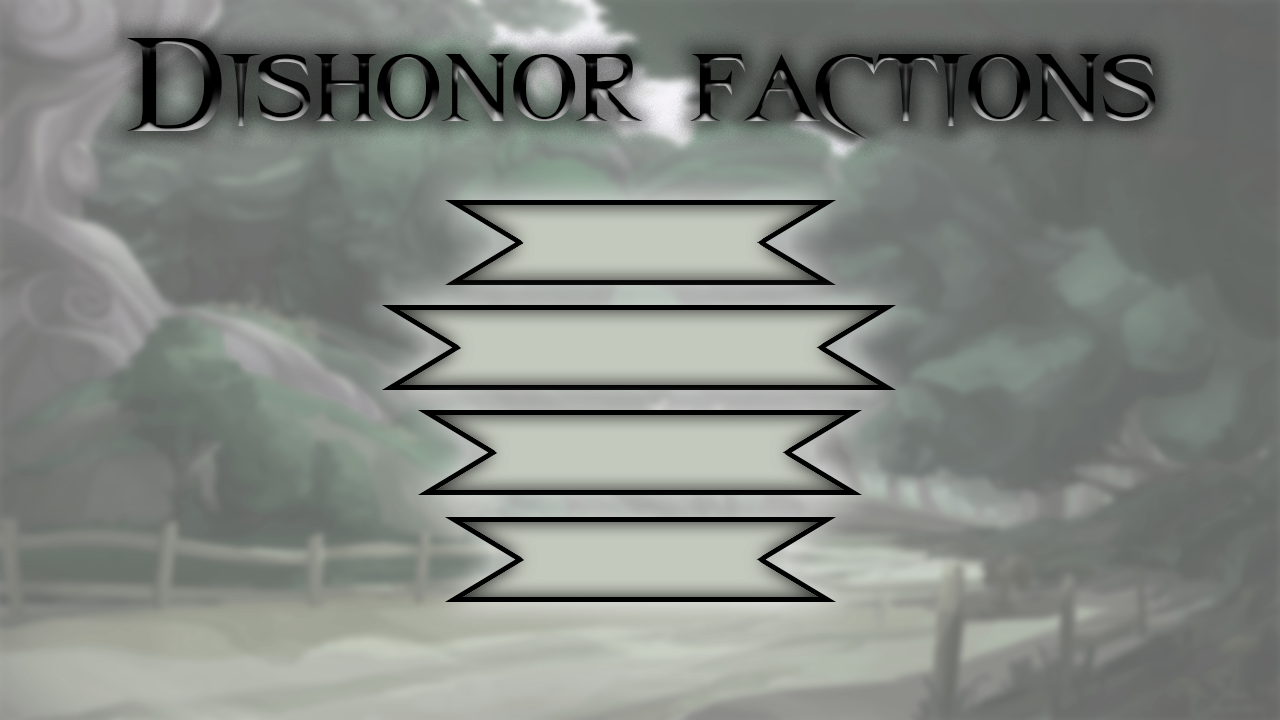
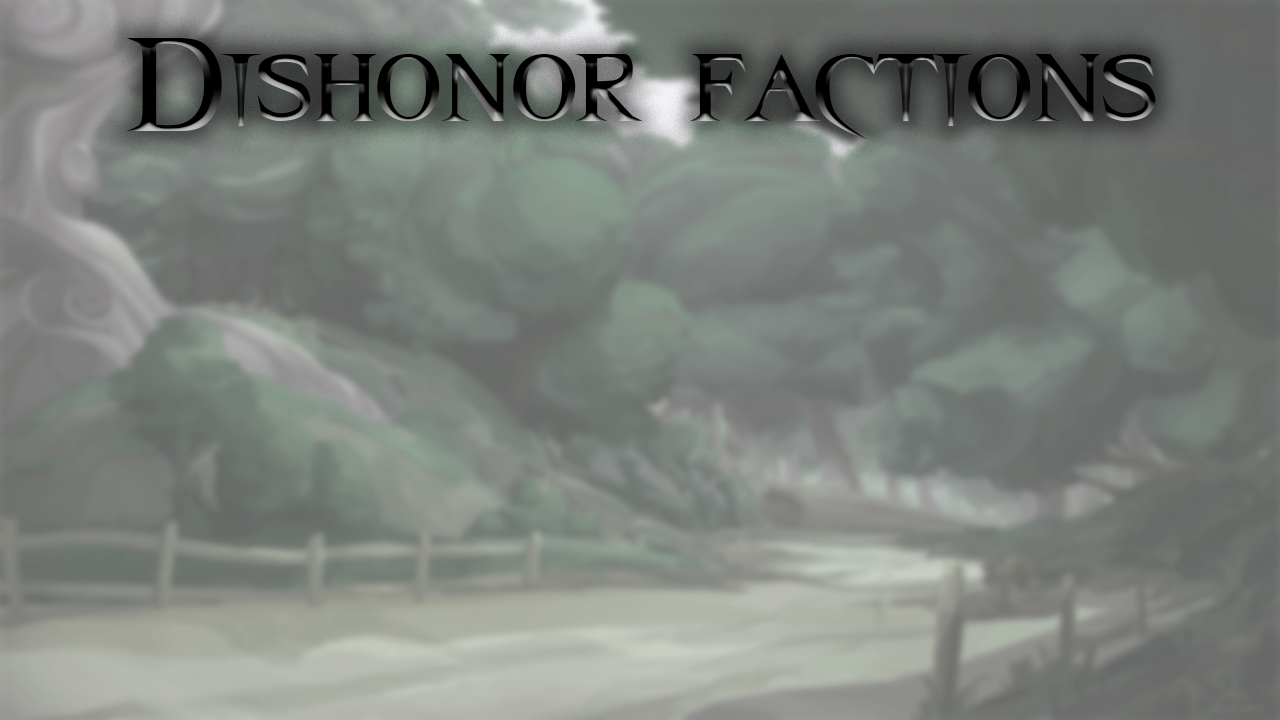
Menu corregido

Changed region(s): [[0.2812, 0.2444, 0.7188, 0.8556]]

diff --git a/JavaScript/menu.js b/JavaScript/menu.js
@@ -21,18 +21,18 @@ export class Menu extends Phaser.Scene
 	{		
 		//añadir imagenes a la escena
 		this.add.image(0, 0, 'menu').setOrigin(0, 0);
-		this.playButtonShadow = this.add.image(650, 253, 'botonJugar');
+		this.playButtonShadow = this.add.image(650, 350, 'botonJugar');
 		this.playButtonShadow.tint = 0x000000;
 		this.playButtonShadow.alpha = 0.5;
 		this.playButtonShadow.visible = false;
 
-		this.creditsButtonShadow = this.add.image(650, 463, 'botonCreditos');
+		this.creditsButtonShadow = this.add.image(650, 460, 'botonCreditos');
 		this.creditsButtonShadow.tint = 0x000000;
 		this.creditsButtonShadow.alpha = 0.5;
 		this.creditsButtonShadow.visible = false;
 
-		this.playButton = this.add.image(640, 243, 'botonJugar');
-		this.creditsButton = this.add.image(640, 453, 'botonCreditos');
+		this.playButton = this.add.image(640, 340, 'botonJugar');
+		this.creditsButton = this.add.image(640, 450, 'botonCreditos');
 
 		//hacer las imagenes de los botones interactivas
 		this.playButton.setInteractive();
